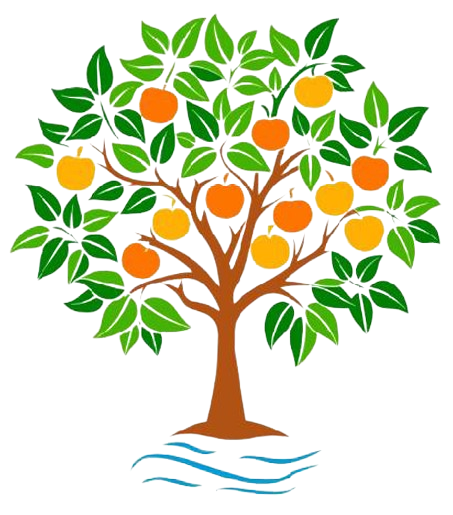
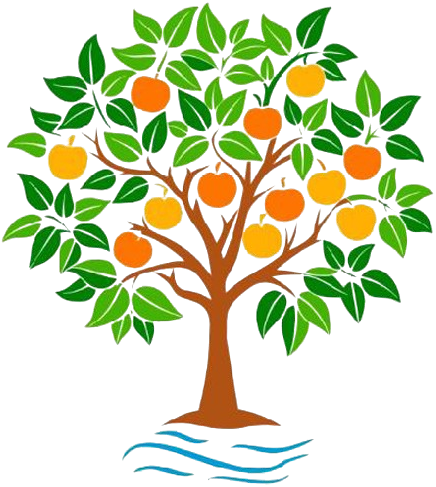
Refine home/studies layout and update LGWC branding assets

Changed region(s): [[0.0, 0.0, 1.0, 0.7392], [0.2683, 0.7392, 0.7156, 1.0]]

diff --git a/src/app/studies/page.tsx b/src/app/studies/page.tsx
@@ -1,3 +1,4 @@
+import Image from "next/image";
 import Link from "next/link";
 import { listStudies } from "@/lib/data";
 import { formatDate } from "@/lib/format";
@@ -24,22 +25,30 @@ export default async function StudiesPage({ searchParams }: StudiesPageProps) {
 
   return (
     <>
-      <section className="hero stack">
-        <h2>Bible Study Archive</h2>
-        <form className="inline-search" method="get">
-          <label>
-            Search
-            <input
-              type="search"
-              name="q"
-              defaultValue={query}
-              placeholder="Grace, John 15, discipleship..."
-            />
-          </label>
-          <button className="button-primary" type="submit">
-            Search
-          </button>
-        </form>
+      <section className="studies-hero-row">
+        <div className="studies-hero-logo">
+          <Image src="/lgwc-logo-2.png" alt="Love & Good Works" width={1200} height={1200} />
+        </div>
+        <article className="hero stack">
+          <h2>Bible Study Archive</h2>
+          <p className="studies-subtitle">
+            Search and paruse notes from Kurt&apos;s study outlines curated by our lovely Hannah.
+          </p>
+          <form className="inline-search" method="get">
+            <label>
+              Search
+              <input
+                type="search"
+                name="q"
+                defaultValue={query}
+                placeholder="Grace, John 15, discipleship..."
+              />
+            </label>
+            <button className="button-primary" type="submit">
+              Search
+            </button>
+          </form>
+        </article>
       </section>
 
       <section className="stack">

diff --git a/src/app/page.tsx b/src/app/page.tsx
@@ -36,7 +36,7 @@ export default async function HomePage() {
 
       <section className="home-main-row">
         <div className="stack">
-          <article className="card stack">
+          <article className="card stack next-meeting-card">
             <p className="eyebrow">Next Meeting</p>
             {nextMeeting ? (
               <>
@@ -55,8 +55,8 @@ export default async function HomePage() {
           </article>
 
           <article className="card stack">
-            <p className="eyebrow">Current Studies</p>
-            <p>Browse archived notes from our Bible studies with verse quick-lookup.</p>
+            <p className="eyebrow">Latest Studies</p>
+            <p>Browse archived notes from Kurt&apos;s Bible studies with verse quick-lookup.</p>
             <Link href="/studies" className="button-primary">
               Explore Studies
             </Link>
@@ -65,18 +65,14 @@ export default async function HomePage() {
           <article className="card stack">
             <p className="eyebrow">Prayer Requests</p>
             <p>
-              Submit private prayer needs to the admin team. Requests are reviewed privately and included
-              in weekly prayer follow-up.
+              Submit private prayer needs.  Requests are reviewed privately to be included
+              in weekly prayer mailing.
             </p>
             <Link href="/prayer" className="button-primary">
               Submit Prayer Request
             </Link>
           </article>
         </div>
-
-        <article className="home-logo-secondary">
-          <Image src="/lgwc-logo-2.png" alt="Love & Good Works" width={1200} height={1200} />
-        </article>
       </section>
     </>
   );

diff --git a/src/app/globals.css b/src/app/globals.css
@@ -156,23 +156,50 @@ textarea {
   object-fit: contain;
 }
 
-.home-logo-secondary {
-  display: flex;
-  align-items: center;
-  justify-content: center;
+.home-main-row {
+  display: grid;
+  gap: 1rem;
 }
 
-.home-logo-secondary img {
-  width: min(100%, 760px);
+.next-meeting-card {
+  gap: 0.4rem;
+}
+
+.next-meeting-card p {
+  margin: 0;
+  line-height: 1.3;
+}
+
+.next-meeting-card h3 {
+  margin: 0.1rem 0;
+}
+
+.next-meeting-card .button-outline {
+  margin-top: 0.25rem;
+}
+
+.studies-hero-row {
+  display: grid;
+  grid-template-columns: minmax(160px, 220px) minmax(0, 1fr);
+  align-items: stretch;
+  gap: 1rem;
+}
+
+.studies-hero-logo {
+  display: flex;
+  justify-content: center;
+  align-items: center;
+}
+
+.studies-hero-logo img {
+  width: 100%;
   height: auto;
   object-fit: contain;
 }
 
-.home-main-row {
-  display: grid;
-  gap: 1rem;
-  grid-template-columns: minmax(0, 0.38fr) minmax(0, 0.62fr);
-  align-items: start;
+.studies-subtitle {
+  margin: 0;
+  color: var(--ink-soft);
 }
 
 .resource-line {
@@ -532,6 +559,10 @@ td {
   }
 
   .home-main-row {
+    grid-template-columns: 1fr;
+  }
+
+  .studies-hero-row {
     grid-template-columns: 1fr;
   }
 }

diff --git a/src/components/AppChrome.tsx b/src/components/AppChrome.tsx
@@ -6,8 +6,8 @@ import { usePathname } from "next/navigation";
 
 const navItems = [
   { href: "/", label: "Home" },
-  { href: "/calendar", label: "Calendar" },
   { href: "/studies", label: "Studies" },
+  { href: "/calendar", label: "Calendar" },
   { href: "/prayer", label: "Prayer" },
   { href: "/resources", label: "Resources" },
   { href: "/admin", label: "Admin" },
